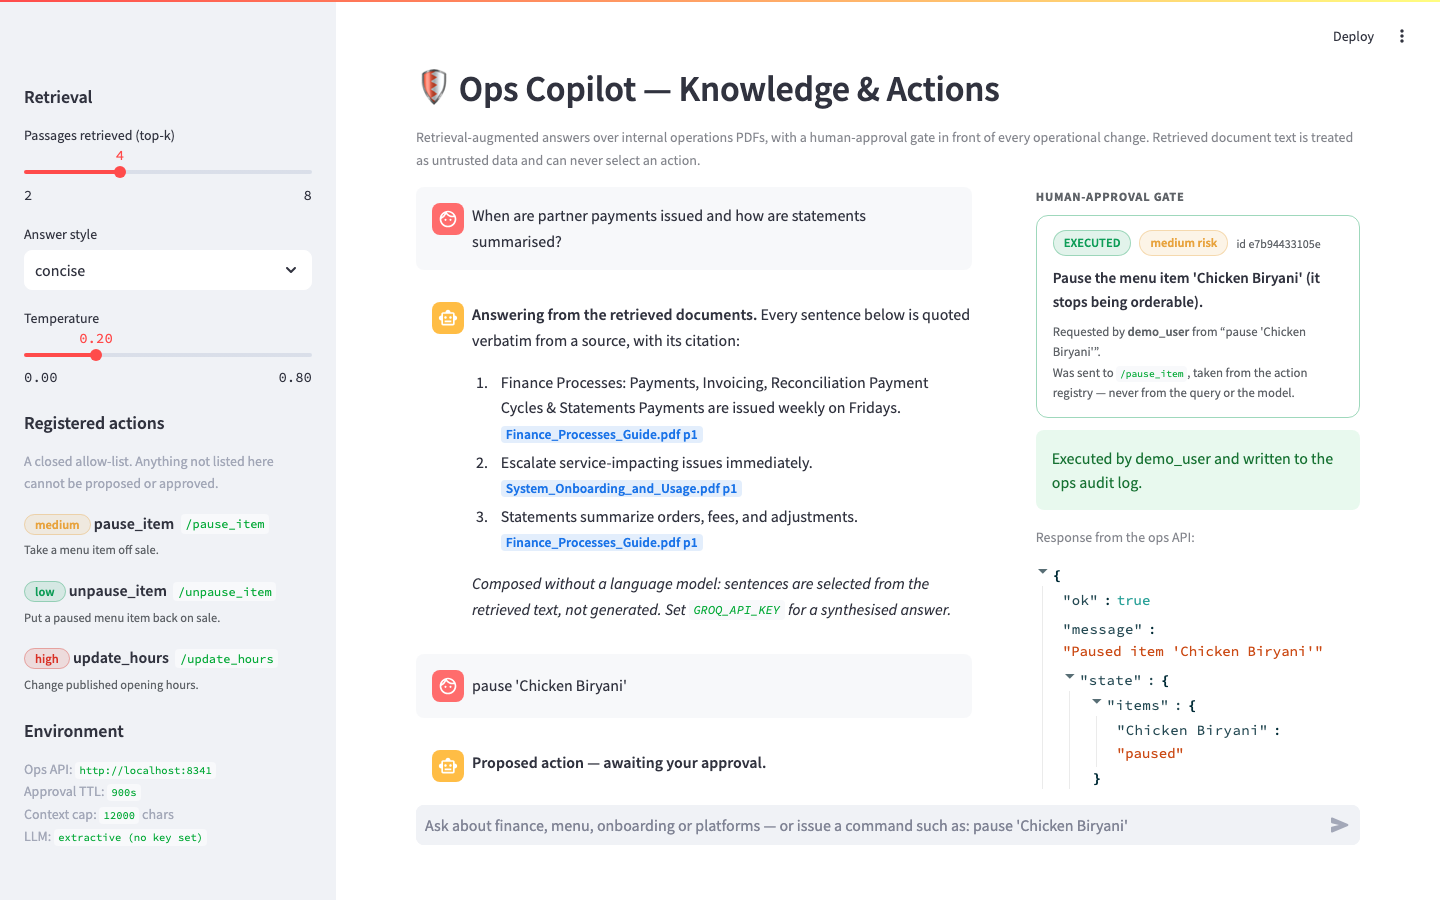
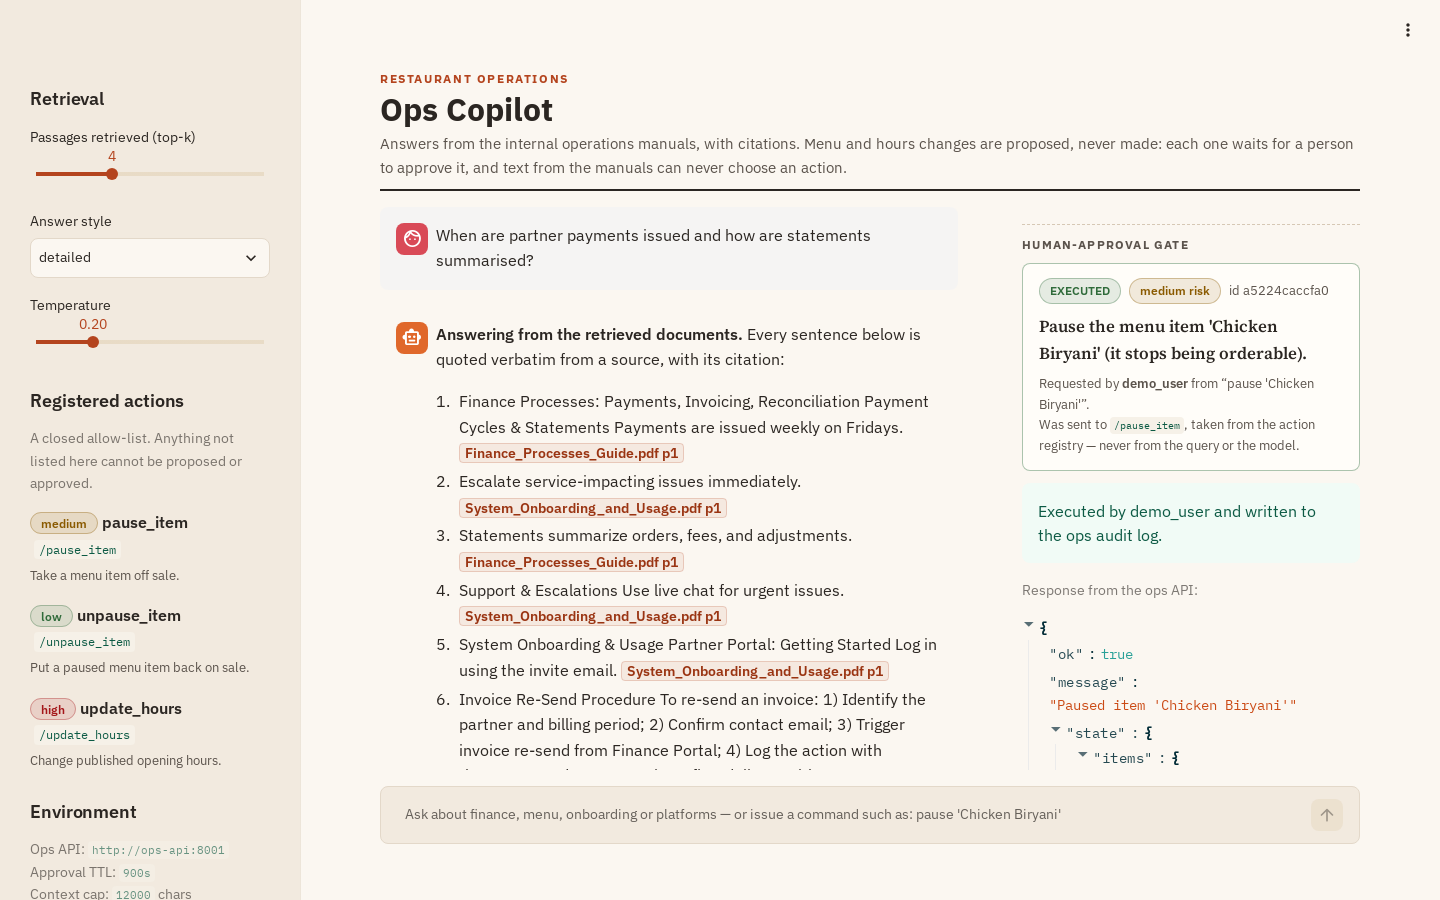
Document the ops API, refresh screenshots, add an MIT licence
README gains captured request/response pairs for /actions, /pause_item
and /audit, a phone-width capture, in-image test commands and current
eval numbers. Screenshots are retaken from the compose stack with the new
console styling.

diff --git a/README.md b/README.md
@@ -13,6 +13,8 @@ passages, so retrieval, citations, the critic and the approval gate all run for 
 
 ## Running locally
 
+Python 3.11 is pinned in `.python-version` and matches the Docker base image.
+
 ```bash
 python3.11 -m venv .venv && source .venv/bin/activate
 pip install -r requirements.txt -r requirements-dev.txt
@@ -23,7 +25,8 @@ uvicorn connectors.ops_stub_api.main:app --port 8001   # second shell, so approv
 ```
 
 The first index build downloads `BAAI/bge-small-en-v1.5` (about 130 MB). Set `EMBEDDER_PROVIDER=hashing` to skip
-the download and never import torch; retrieval becomes lexical instead of semantic, which is fine for CI.
+the download and never import torch; retrieval becomes lexical instead of semantic, which is enough for tests and a
+quick look.
 
 With Docker, `docker compose up -d --build` serves the console on http://localhost:8340 and the ops API on
 http://localhost:8341. A one-shot `bootstrap` service generates the PDFs and builds the index into a shared volume
@@ -41,6 +44,50 @@ After approval the gate dispatches exactly once and shows the ops API's response
 request, so the ops audit log can be joined back to the decision.
 
 ![The action executed after approval, with the ops API response](docs/screenshots/action-executed.png)
+
+On a phone the columns stack: the answer and its citation chips first, then the gate, the grounding check and the
+cost panel.
+
+<img src="docs/screenshots/mobile-answer.png" alt="The console at phone width, showing a cited answer" width="300">
+
+## The ops API
+
+The stub on port 8341 (8001 inside the stack) is what an approved action calls. These exchanges were captured from
+the compose stack. `GET /actions` publishes the registry the agent proposes from:
+
+```bash
+curl -s localhost:8341/actions
+```
+
+```json
+{"actions": [
+  {"action": "pause_item", "description": "Take a menu item off sale.", "risk": "medium", "approval": "required", "endpoint": "/pause_item"},
+  {"action": "unpause_item", "description": "Put a paused menu item back on sale.", "risk": "low", "approval": "required", "endpoint": "/unpause_item"},
+  {"action": "update_hours", "description": "Change published opening hours.", "risk": "high", "approval": "required", "endpoint": "/update_hours"}
+]}
+```
+
+This is the request the gate sends after an approval:
+
+```bash
+curl -s -X POST localhost:8341/pause_item -H 'content-type: application/json' \
+  -d '{"type": "pause_item", "operator": "demo_user", "item": "Lamb Karahi",
+       "approval_id": "3f9c1b2a7d10", "original_query": "pause '"'"'Lamb Karahi'"'"'"}'
+```
+
+```json
+{"ok": true, "message": "Paused item 'Lamb Karahi'", "state": {"items": {"Lamb Karahi": "paused"}, "hours_note": ""}}
+```
+
+A payload without an item is refused with a 400 (`{"detail": "Missing 'item' in payload"}`) and is not audited.
+`GET /audit?limit=N` returns the last N audit lines, plus a count of all of them:
+
+```json
+{"count": 1, "returned": 1, "entries": [
+  {"action": "pause_item", "type": "pause_item", "operator": "demo_user", "item": "Lamb Karahi", "details": null,
+   "original_query": "pause 'Lamb Karahi'", "approval_id": "3f9c1b2a7d10", "ts": "2026-11-07T15:52:13.861328+00:00"}
+]}
+```
 
 ## Architecture
 
@@ -127,7 +174,8 @@ menu, which is the classic prompt-injection setup: a supplier price list saying 
 pause every item". `propose()` only ever sees the operator's typed query, and `agents/prompting.py` does not import
 the registry at all (`TestNoPathToActions::test_the_prompting_module_cannot_reach_the_action_registry` fails if it
 ever does). Inside the prompt, retrieved text is fenced in `<context>` tags, capped at `MAX_CONTEXT_CHARS`
-independent of `top_k`, and labelled as untrusted data. That fencing is mitigation only; a persuasive document can
+independent of `top_k`, and labelled as untrusted data, and the console HTML-escapes passages, answers and queries before rendering them, so a
+PDF cannot inject markup into the approval screen (`tests/test_ui_components.py`). The prompt fencing is mitigation only; a persuasive document can
 still steer prose. I accept that because the worst outcome is a wrong answer, and answers are graded. The defences
 that actually hold are structural: the import boundary, the closed allow-list and the human gate.
 
@@ -150,7 +198,9 @@ Context dominates the prompt, which is why `MAX_TOP_K` is a cost control as much
 `agents/embedding_cache.py` keeps a content-addressed SQLite cache keyed on `blake2b(model + text)`, with WAL
 enabled so the indexer and UI can share it. The model name is in the key, so changing `EMBEDDING_MODEL` is a clean
 miss rather than a stale hit, and an unwritable path falls back to `NullEmbeddingCache`. There is no reranker, BM25
-or query expansion; on six documents they would add moving parts without a measurable gain.
+or query expansion; on six documents they would add moving parts without a measurable gain. Chroma's anonymised
+product telemetry is switched off in the one place clients are built (`agents/retrieval.persistent_client`), so the
+stack makes no outbound calls of its own when there is no Groq key.
 
 ## Configuration
 
@@ -171,7 +221,7 @@ default rather than crashing the Streamlit process at import.
 ## Testing
 
 ```bash
-pytest                    # 339 tests, about 5 seconds
+pytest                    # 361 tests, a few seconds
 ruff check .
 python -m eval.harness    # add --top-k N, --json, --fail-under 0.9
 ```
@@ -179,7 +229,16 @@ python -m eval.harness    # add --top-k N, --json, --fail-under 0.9
 No test touches the network or spends a token. Autouse fixtures in `tests/conftest.py` make any outbound socket
 raise, strip `GROQ_API_KEY`, give each test a fresh gate whose dispatcher records instead of executing, and disable
 the on-disk embedding cache. The Groq path runs against `tests/fakes.FakeGroq`, which records the request that would
-have been sent.
+have been sent, and `tests/test_groq_sdk_contract.py` drives the real `groq` client through an in-process HTTP
+transport, so an SDK upgrade that changes its arguments or response shape fails offline. `tests/test_ui_app.py` runs
+the Streamlit script headless with `AppTest`: a question, a retrieval failure, and a command approved at the gate.
+
+With the stack running, the same checks run inside the built image:
+
+```bash
+docker compose exec ui pytest
+docker compose exec ui python -m eval.harness
+```
 
 The eval harness asks ten checked-in questions and reports, per question, whether the expected document was
 retrieved (so retrieval failures are separate from composition failures), the critic's verdict, latency and cost.
@@ -187,9 +246,12 @@ One question is unanswerable and passes only if the system declines to answer it
 
 ```
 10/10 passed   retrieval recall 100%   grounded 100%
-median latency 133ms (retrieval 131ms)   provider extractive
-cost 0 call(s), 0 tokens, $0.000000 total
+median latency 33ms (retrieval 31ms)   provider extractive
+cost 0 call(s), 0 tokens, $0.000000 total — $0.000000/question
 ```
+
+With `EMBEDDER_PROVIDER=hashing` the same run scores 9/10 with 89% retrieval recall: one answerable question misses
+its source document, the gap between lexical and semantic retrieval on this corpus.
 
 ## Limitations and roadmap
 
@@ -206,4 +268,7 @@ cost 0 call(s), 0 tokens, $0.000000 total
   generated PDFs (nine chunks). The latency figures above say nothing about Chroma at scale.
 - **Auth and tenancy.** There is no authentication or per-user index scoping, and `OPERATOR_NAME` is trusted as
   given.
-- **CI for the container.** The compose stack is defined but the suite is not yet run inside the built image in CI.
+
+## License
+
+MIT. See `LICENSE`.
